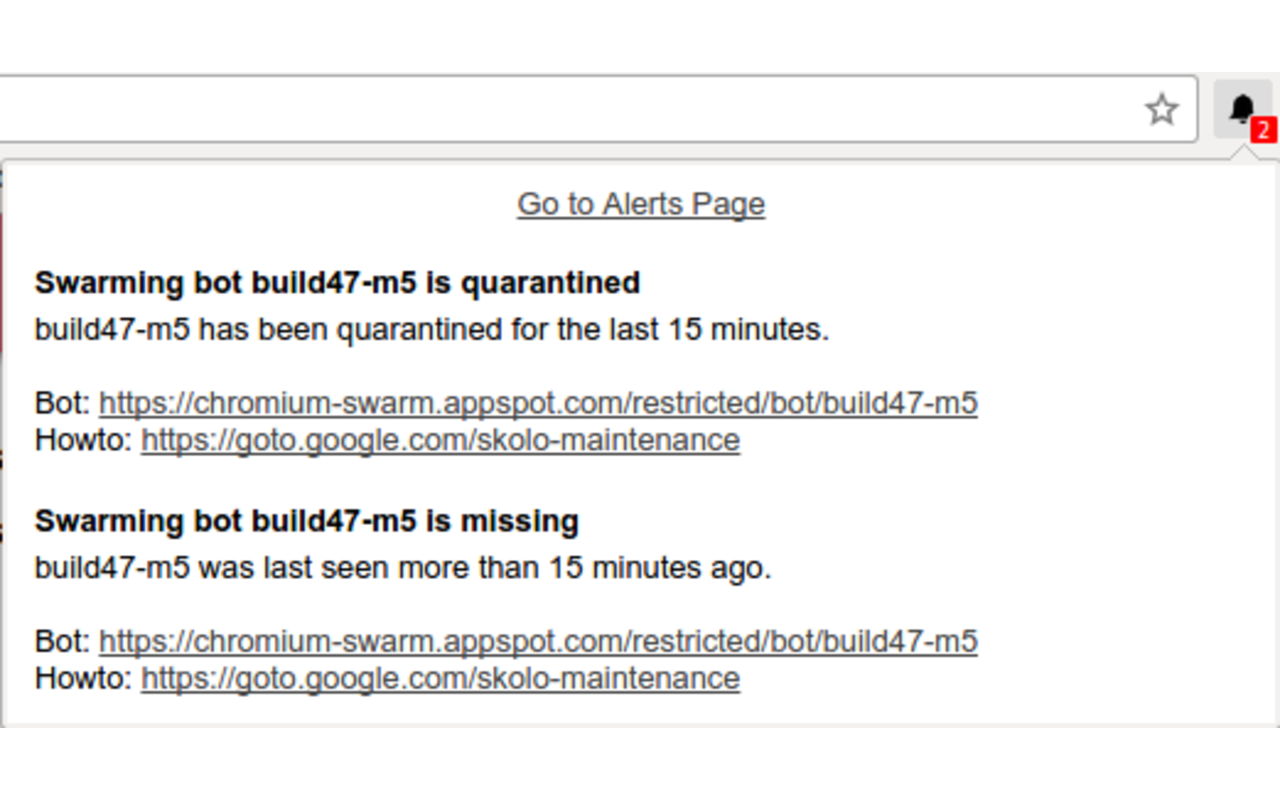
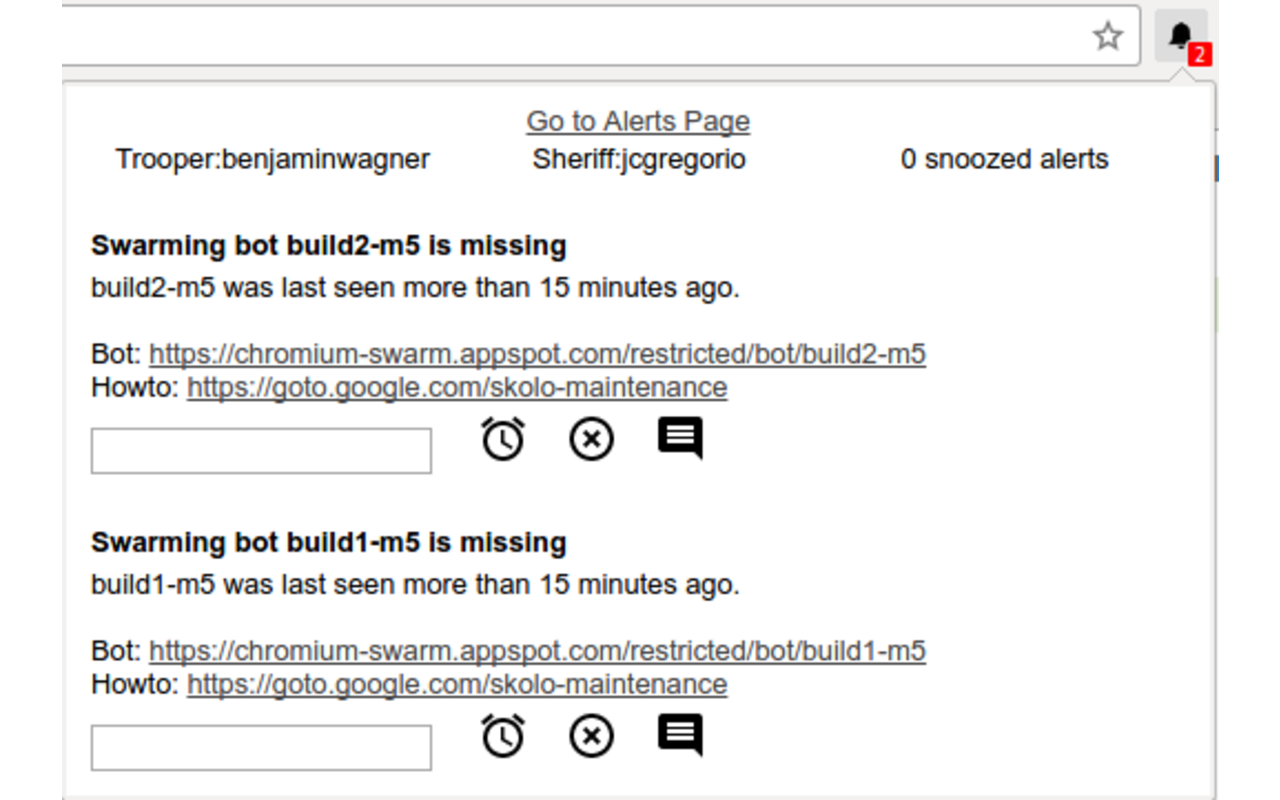
Add ability to dismiss/snooze/comment on alerts from the infra alerts extension
Also adds the following:
* Displays the current snoozed alerts count.
* Displays this week's trooper.
* Displays this week's sheriff.
* Informs user if they are not signed into alerts.skia.org.

Screenshot: https://screenshot.googleplex.com/5ZMPtKov2SW

BUG=skia:5551

Review-Url: https://codereview.chromium.org/2167643004

diff --git a/chromeextensions/skia-trooper/popup.js b/chromeextensions/skia-trooper/popup.js
@@ -11,7 +11,79 @@
     return content;
   }
 
+  function isLoggedIn() {
+    var xmlHttp = new XMLHttpRequest();
+    xmlHttp.open("GET", "https://alerts.skia.org/loginstatus/", false);
+    xmlHttp.send(null);
+    var loginStatus = JSON.parse(xmlHttp.responseText);
+    return loginStatus["IsAGoogler"];
+  }
+
+  function getCommentInputField(alertId) {
+    return "<input type='text' id='comment_input" + alertId + "' value=''>"
+  }
+
+  function getSnoozeSVG(alertId) {
+    return "<svg id='snooze" + alertId + "' class='first-svg'><path d='M22 5.72l-4.6-3.86-1.29 1.53 4.6 3.86L22 5.72zM7.88 3.39L6.6 1.86 2 5.71l1.29 1.53 4.59-3.85zM12.5 8H11v6l4.75 2.85.75-1.23-4-2.37V8zM12 4c-4.97 0-9 4.03-9 9s4.02 9 9 9c4.97 0 9-4.03 9-9s-4.03-9-9-9zm0 16c-3.87 0-7-3.13-7-7s3.13-7 7-7 7 3.13 7 7-3.13 7-7 7z'><title>Snooze and add comment</title></path></svg>"
+  }
+
+  function getDismissSVG(alertId) {
+    return "<svg id='dismiss" + alertId + "'><path d='M14.59 8L12 10.59 9.41 8 8 9.41 10.59 12 8 14.59 9.41 16 12 13.41 14.59 16 16 14.59 13.41 12 16 9.41 14.59 8zM12 2C6.47 2 2 6.47 2 12s4.47 10 10 10 10-4.47 10-10S17.53 2 12 2zm0 18c-4.41 0-8-3.59-8-8s3.59-8 8-8 8 3.59 8 8-3.59 8-8 8z'><title>Dismiss and add comment</title></path></svg>"
+  }
+
+  function getAddCommentSVG(alertId) {
+    return "<svg id='addcomment" + alertId + "'><path d='M21.99 4c0-1.1-.89-2-1.99-2H4c-1.1 0-2 .9-2 2v12c0 1.1.9 2 2 2h14l4 4-.01-18zM18 14H6v-2h12v2zm0-3H6V9h12v2zm0-3H6V6h12v2z'><title>Add comment</title></path></svg>"
+  }
+
+  function handleActionEvent(alertId, action) {
+    var oneHourSnooze = Math.round((Date.now() + (60*60*1000))/1000);
+    var commentText = document.getElementById("comment_input" + alertId).value;
+    var xmlHttp = new XMLHttpRequest();
+    xmlHttp.open("POST", "https://alerts.skia.org/json/alerts/" + alertId + "/" + action, true);
+    xmlHttp.onload = function(e) {
+      if (xmlHttp.readyState === 4 && xmlHttp.status === 200) {
+        location.reload();
+      } else {
+        document.getElementById("errors").innerHTML += xmlHttp.statusText;
+      }
+    }
+    xmlHttp.onerror = function(e) {
+      document.getElementById("errors").innerHTML += "Error connecting to alerts server</br>";
+    }
+    var body = JSON.stringify({until: oneHourSnooze, comment: commentText});
+    xmlHttp.send(body);
+  }
+
+  function setTrooperAndSheriff() {
+    var urls = ["http://skia-tree-status.appspot.com/current-trooper",
+                "http://skia-tree-status.appspot.com/current-sheriff"]
+    urls.forEach(function(url) {
+      var xmlHttp = new XMLHttpRequest();
+      xmlHttp.open("GET", url, true);
+      xmlHttp.onload = function(e) {
+        if (xmlHttp.readyState === 4 && xmlHttp.status === 200) {
+          var data = JSON.parse(xmlHttp.responseText);
+          var tokens = url.split("/");
+          var idName = tokens[tokens.length - 1];
+          document.getElementById(idName).innerHTML = data["username"].split("@")[0];
+        } else {
+          document.getElementById("errors").innerHTML += xmlHttp.statusText;
+        }
+      }
+      xmlHttp.onerror = function(e) {
+        document.getElementById("errors").innerHTML += "Error connecting to " + url + "</br>";
+      }
+      xmlHttp.send(null);
+    });
+  }
+
   function main() {
+    var loginStatus = document.getElementById("login-status");
+    if (! isLoggedIn()) {
+      loginStatus.innerHTML = "(not logged in)"
+    }
+    setTrooperAndSheriff();
+
     var xmlHttp = new XMLHttpRequest();
     xmlHttp.open("GET", "https://alerts.skia.org/json/alerts/", true);
     xmlHttp.onload = function(e) {
@@ -21,33 +93,56 @@
 
           var table = document.getElementById("alerts-table");
 
+          var numSnoozedAlerts = 0;
           var foundActiveAlerts = false;
           alerts.forEach(function(al) {
-            if (al["category"] == "infra" && al["snoozedUntil"] == 0) {
-              foundActiveAlerts = true;
+            if (al["category"] != "infra") {
+              return;
+            } else if (al["snoozedUntil"] != 0) {
+              numSnoozedAlerts++;
+              return;
+            }
+            foundActiveAlerts = true;
 
-              var row = table.insertRow(-1);
-              row.className = "alerts-row-name"
-              var label = row.insertCell(-1);
-              label.innerHTML = al["name"]
+            var row = table.insertRow(-1);
+            row.className = "alerts-row-name"
+            var label = row.insertCell(-1);
+            label.innerHTML = al["name"]
 
+            var row = table.insertRow(-1);
+            row.className = "alerts-row-msg"
+            var label = row.insertCell(-1);
+            label.innerHTML = linkify(al["message"]);
+
+            if (isLoggedIn()) {
+              var alertId = al["id"];
               var row = table.insertRow(-1);
-              row.className = "alerts-row-msg"
+              row.className = "alerts-row-actions"
               var label = row.insertCell(-1);
-              label.innerHTML = linkify(al["message"]);
+              label.innerHTML = getCommentInputField(alertId) + getSnoozeSVG(alertId) +
+                                getDismissSVG(alertId) + getAddCommentSVG(alertId);
+
+              // Add click listeners for all support actions.
+              var actions = ["snooze", "dismiss", "addcomment"]
+              actions.forEach(function(action) {
+                document.getElementById(action + alertId).addEventListener(
+                    "click", handleActionEvent.bind(this, alertId, action));
+              });
             }
           });
+          document.getElementById("snoozed-alerts").innerHTML =
+              numSnoozedAlerts + " snoozed alerts";
 
           if (!foundActiveAlerts) {
-            table.insertRow(-1).insertCell(-1).innerHTML = "No alerts are active."
+            table.insertRow(-1).insertCell(-1).innerHTML = "<br/>No alerts are active."
           }
         } else {
-          document.getElementById("errors").innerHTML = xmlHttp.statusText;
+          document.getElementById("errors").innerHTML += xmlHttp.statusText;
         }
       }
     }
     xmlHttp.onerror = function(e) {
-      document.getElementById("errors").innerHTML = xmlHttp.statusText;
+      document.getElementById("errors").innerHTML += "Error getting alerts<br/>";
     }
     xmlHttp.send(null);
   }

diff --git a/chromeextensions/skia-trooper/popup.html b/chromeextensions/skia-trooper/popup.html
@@ -25,9 +25,28 @@
       cursor: pointer;
     }
 
+    #extra-info {
+      margin-left: auto;
+      margin-right: auto;
+    }
+    #extra-info td {
+      padding: 0px 10px;
+      width: 33%;
+      text-align: center;
+    }
+
     .alerts-row-name td {
       font-weight: bold;
-      padding-top: 15px;
+      padding-top: 20px;
+    }
+
+    .first-svg {
+      padding-left: 20px;
+    }
+
+    svg {
+      height: 22px;
+      width: 40px;
     }
 
     #errors {
@@ -38,7 +57,21 @@
   <body>
     <div class="alerts-link">
       <a href="https://alerts.skia.org/infra" target="_blank">Go to Alerts Page</a>
+      <span id="login-status"></span>
     </div>
+    <table id="extra-info">
+      <tr>
+        <td>
+          Trooper:<span id="current-trooper"></span>
+        </td>
+        <td>
+          Sheriff:<span id="current-sheriff"></span>
+        </td>
+        <td>
+          <span id="snoozed-alerts"></span>
+        </td>
+      </tr>
+    </table>
     <table id="alerts-table"></table>
     <div id="errors"></div>
     <script src="popup.js"></script>
